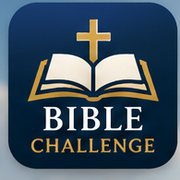
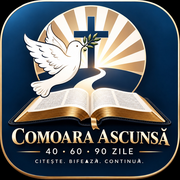
Add files via upload

diff --git a/index.html b/index.html
@@ -8,7 +8,7 @@
 <link rel="apple-touch-icon" href="apple-touch-icon.png">
 <style>
 :root{--n:#08283d;--g:#c99024;--c:#fffaf0}*{box-sizing:border-box}html{scroll-behavior:smooth}body{margin:0;color:#14232d;background:#fbfaf6;font-family:Georgia,serif}.w{max-width:1100px;margin:auto;padding:0 20px}
-.hero{min-height:620px;color:white;background:radial-gradient(circle at 80% 28%,#d49a3e 0,#78643d 20%,#34505a 43%,#0b2b40 75%);position:relative;overflow:hidden}.hero:after{content:"<img src="logo-comoara-ascunsa.jpg" alt="Comoara Ascunsă" class="comoara-hero-logo">";position:absolute;right:6%;top:65px;font-size:270px;color:#ffd88f2b}
+.hero{min-height:620px;color:white;background:radial-gradient(circle at 80% 28%,#d49a3e 0,#78643d 20%,#34505a 43%,#0b2b40 75%);position:relative;overflow:hidden}.hero:after{content:"✝";position:absolute;right:6%;top:65px;font-size:270px;color:#ffd88f2b}
 nav{display:flex;justify-content:space-between;align-items:center;padding:22px 0;position:relative;z-index:2}.brand{font-size:25px;font-weight:bold}.brand span{color:#f1bd58}.links{display:flex;gap:22px;font-family:Arial;font-size:14px}.links a{color:white;text-decoration:none}
 .hc{padding:90px 0;max-width:680px;position:relative;z-index:2}.ey{letter-spacing:4px;color:#f1c66d;font-weight:bold}.hc h1{font-size:68px;line-height:1;margin:12px 0}.hc h2{font-size:32px;font-weight:normal;margin:0 0 20px}.hc p{font:19px/1.6 Arial}.btn{display:inline-block;border:0;border-radius:30px;background:var(--g);color:white;padding:14px 21px;margin:7px 6px 0 0;text-decoration:none;font:bold 15px Arial;cursor:pointer}.btn.alt{background:white;color:var(--n)}
 section{padding:65px 0}.title{text-align:center;margin-bottom:30px}.title h2{font-size:40px;margin:0}.title p{font:16px Arial;color:#68747b}.grid{display:grid;grid-template-columns:repeat(3,1fr);gap:18px}.card{background:white;border:1px solid #e8e0d2;border-radius:20px;padding:24px;box-shadow:0 10px 30px #23323d0d}.plan{text-align:center;cursor:pointer}.plan.active{outline:3px solid var(--g);background:#fff9e9}.plan b{font-size:36px;color:var(--n)}
@@ -26,32 +26,36 @@ label{font:bold 14px Arial;display:block;margin:12px 0 7px}input[type=date]{widt
 .resourceBody{padding:0 18px 18px;font:16px/1.65 Arial;border-top:1px solid #eee8dc}.resourceApp{background:#fff3d5;padding:12px;border-radius:10px}
 @media(max-width:700px){.quizControls select,.quizControls .btn,.resourceTools select,.resourceTools input{width:100%;margin:0}}
 </style>
-<style id="comoara-final-theme">
-:root{
- --navy:#153b55 !important;
- --gold:#c58a2a !important;
- --cream:#f7f0df !important;
-}
-body{background:#f7f0df !important;color:#153b55 !important;}
-header,nav{background:#153b55 !important;}
-.hero{
- background:linear-gradient(135deg,#f7f0df 0%,#efe2c5 48%,#d9e5e8 100%) !important;
- color:#153b55 !important;
-}
-.hero h1,.hero h2,.hero p{color:#153b55 !important;}
-button,.btn,.primary{border-radius:12px;}
-.comoara-hero-logo{
- width:min(62vw,320px) !important;
- height:auto !important;
- display:block !important;
- margin:18px auto !important;
- border-radius:24px !important;
- box-shadow:0 12px 30px rgba(21,59,85,.18) !important;
+<style id="comoara-approved">
+:root{--n:#123f5b;--g:#d69a1d;--c:#fbf4e2}
+body{background:#fbf4e2;color:#123f5b}
+.hero{min-height:690px;color:#123f5b;background:
+linear-gradient(135deg,#fffaf0 0%,#f7edcf 55%,#e8eff0 100%);position:relative;overflow:hidden}
+.hero:after{content:none!important}
+nav{background:rgba(255,255,255,.72);margin:0 -20px;padding:15px 20px;border-radius:0 0 18px 18px}
+.brand{display:flex;align-items:center;gap:10px;color:#123f5b;font-size:25px}
+.brand img{width:58px;height:58px;border-radius:13px;object-fit:cover;border:2px solid #d69a1d}
+.brand span{color:#d69a1d}
+.links a{color:#123f5b}
+.hc{padding:105px 0 90px;max-width:720px}
+.ey{color:#d69a1d}
+.hc h1{font-size:68px;color:#123f5b}
+.hc h1 span{color:#d69a1d}
+.hc h2,.hc p{color:#123f5b}
+.btn{background:#d69a1d}
+.btn.alt{background:#fff;color:#123f5b;border:1px solid #123f5b}
+@media(max-width:700px){
+ .hero{min-height:680px}
+ nav{margin:0;padding:10px 0;background:transparent;border-radius:0}
+ .brand{font-size:24px;white-space:nowrap}
+ .brand img{width:54px;height:54px}
+ .hc{padding:105px 0 75px}
+ .hc h1{font-size:58px;line-height:.95}
+ .hc h2{font-size:31px;line-height:1.25}
 }
 </style>
-
 </head><body>
-<header class="hero"><div class="w"><nav><div class="brand">📖 <span>Bible</span> Challenge</div><div class="links"><a href="#">Acasă</a><a href="#planuri">Planuri</a><a href="#quiz">Quiz</a><a href="#resurse">Resurse utile</a><a href="#despre">Despre</a></div></nav><div class="hc"><div class="ey">MAI MULT DECÂT O LECTURĂ</div><h1>Comoara Ascunsă</h1><h2>Citește. Descoperă. Crește. Trăiește.</h2><p>Parcurge întreaga Biblie într-un ritm ales de tine, urmărește progresul și testează-ți cunoștințele biblice și doctrinare.</p><a class="btn" href="#planuri">Începe provocarea →</a><a class="btn alt" href="#quiz">Quiz Creștin</a><p><i>„Cuvântul Tău este o candelă pentru picioarele mele și o lumină pe cărarea mea.” — Psalmul 119:105</i></p></div></div></header>
+<header class="hero"><div class="w"><nav><div class="brand"><img src="logo-comoara-ascunsa.jpg" alt=""><span>Comoara</span> Ascunsă</div><div class="links"><a href="#">Acasă</a><a href="#planuri">Planuri</a><a href="#quiz">Quiz</a><a href="#resurse">Resurse utile</a><a href="#despre">Despre</a></div></nav><div class="hc"><div class="ey">MAI MULT DECÂT O LECTURĂ</div><h1><span>Comoara</span><br>Ascunsă</h1><h2>Citește. Descoperă. Crește.<br>Trăiește.</h2><p>Parcurge întreaga Biblie într-un ritm ales de tine, urmărește progresul și testează-ți cunoștințele biblice și doctrinare.</p><a class="btn" href="#planuri">Începe provocarea →</a><a class="btn alt" href="#quiz">Quiz Creștin</a><p><i>„Cuvântul Tău este o candelă pentru picioarele mele și o lumină pe cărarea mea.” — Psalmul 119:105</i></p></div></div></header>
 <section id="planuri"><div class="w"><div class="title"><h2>Planuri de citire</h2><p>Fiecare persoană își alege singură data de început.</p></div><div class="grid"><div class="card plan" data-p="40"><b>40</b><h3>zile</h3><p>Provocare intensă</p></div><div class="card plan" data-p="60"><b>60</b><h3>zile</h3><p>Ritm echilibrat</p></div><div class="card plan" data-p="90"><b>90</b><h3>zile</h3><p>Ritm constant</p></div></div><div class="card" style="margin-top:20px"><label>Alege data de început</label><input id="start" type="date"><div class="today" id="today"></div><div style="display:flex;justify-content:space-between;font-family:Arial"><b>Progres</b><b id="pct">0%</b></div><div class="bar"><i id="bar"></i></div><p id="summary" style="font-family:Arial"></p><div id="days"></div></div></div></section>
 <section class="quiz" id="quiz"><div class="w"><div class="title"><h2>Quiz Creștin</h2><p>100 de întrebări • Biblie • doctrină • teologie penticostală</p></div>
 <div class="quizControls"><select id="quizCat"><option>Toate</option><option>Biblie</option><option>Doctrină</option><option>Penticostal</option></select><select id="quizLevel"><option>Toate</option><option>Ușor</option><option>Mediu</option><option>Greu</option></select><button class="btn" id="quizStart">Quiz nou – 20 întrebări</button></div>

diff --git a/sw.js b/sw.js
@@ -1,5 +1,5 @@
-const CACHE='comoara-ascunsa-v3-corectat';
-const ASSETS=['./','./index.html','./app.js','./manifest.json','./favicon.png','./apple-touch-icon.png','./icon-192.png','./icon-512.png','./iordan-sampras-final.png'];
+const CACHE='comoara-ascunsa-final-20260908';
+const ASSETS=['./','./index.html','./app.js','./manifest.json','./favicon.png','./apple-touch-icon.png','./icon-192.png','./icon-512.png','./logo-comoara-ascunsa.jpg','./iordan-sampras-final.png'];
 self.addEventListener('install',e=>e.waitUntil(caches.open(CACHE).then(c=>c.addAll(ASSETS))));
 self.addEventListener('activate',e=>e.waitUntil(caches.keys().then(keys=>Promise.all(keys.filter(k=>k!==CACHE).map(k=>caches.delete(k))))));
 self.addEventListener('fetch',e=>{
